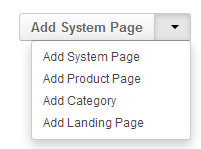
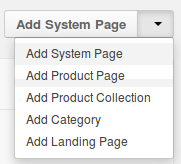
DOC-156: Product Collection Documentation (#10060)

diff --git a/commerce/user_guide/segments/index.rst b/commerce/user_guide/segments/index.rst
@@ -1,0 +1,103 @@
+.. _user-guide-filters-segments:
+
+Segments
+========
+
+Segments are dynamically filtered subsets of the data (e.g. product collection, marketing list) in OroCommerce.
+
+To use a set of records in reports, filters, web catalog nodes or marketing lists, you can create a segment and reuse it instead of copying the same query as a condition.
+
+.. image:: /user_guide/img/filters/use_segments_in_filter.png
+
+Segment combines a set of records filtered using the query that may use the following information as the foundation:
+
+* Activity
+* Data audit
+* Field Condition
+* Segment
+* Condition Group
+
+Dynamic segments refresh automatically. Segments of manual type require explicit refresh by clicking **Refresh** |IcRefresh|.
+
+.. _user-guide--create-segments:
+
+Create Segments
+---------------
+To create a new segment:
+
+#. Navigate to **Reports & Segments > Manage Segments** in the main menu.
+
+#. Click **Create Segment**.
+
+   The *Create Segment page* emerges.
+
+#. In the *General Details*:
+
+   .. image:: /user_guide/img/filters/segment_general.png
+
+   a) Fill in the segment name.
+
+   #) *Optionally*, add a **Description** to help you and other users to understand the purpose or peculiarities of the segment in the future.
+
+   #) Select the main entity that segment should look up.
+
+   #) Select the segment type from the list. **Dynamic** segments are updated as soon as any changes have taken place in the system. **Manual** segments are updated only following the manual refresh action when viewing the segment details.
+
+   #) Optionally, specify the records limit. The segment shows the first X results in case the limit is provided.
+
+   #) Select the segment owner - a business unit, members of which can manage the segment, subject to the roles defined in the system.
+
+#. In the *Designer > Columns* section, define the set of the fields of the entity records to be shown in the segment.
+
+   .. image:: /user_guide/img/filters/list_columns.png
+
+   In order to add a column to the grid:
+
+      a) Choose a field from the drop-down in the **Column** section.
+
+      #) Type in a label to refer to the field in the segment report on the interface. The field label is used by default. Customize it if necessary.
+
+      #) Define the sorting order for at least one column in the segment to sort the resulting data set by the field value.
+
+      #) Click **Add** button.
+
+      #) Reorder the columns by clicking on the line and dragging it to the necessary location.
+
+      .. image:: /user_guide/img/filters/segments_column.png
+
+   In order to manage the columns, use action icons in the last column:
+
+      - Delete a column from the segment with |IcDelete|.
+
+      - Edit the column settings with |IcEdit|.
+
+      - Change the column position, dragging the column by the |IcReorder| icon.
+
+#. In the *Designer > Filters* section, define the filter to select the records for the segment.
+
+#. Click **Save**.
+
+Refresh Manual Segment
+----------------------
+
+To refresh the data in the segment of the manual type:
+
+#. Navigate to **Reports & Segments > Manage Segments** in the main menu.
+
+#. Click on the necessary segment line.
+
+#. Click **Refresh** |IcRefresh|.
+
+View a Segment Filtered Records
+-------------------------------
+
+To view the records selected using the segment filter:
+
+#. Navigate to **Reports & Segments > Manage Segments** in the main menu.
+
+#. Click on the necessary segment line.
+
+.. image:: /user_guide/img/filters/segment_view.png
+
+.. include:: /user_guide/include_images.rst
+   :start-after: begin

diff --git a/commerce/user_guide/marketing_web_catalog/edit_web_catalog_content_tree.rst b/commerce/user_guide/marketing_web_catalog/edit_web_catalog_content_tree.rst
@@ -199,6 +199,34 @@ To add a landing page node to the menu on the OroCommerce Store Front:
 
 #. Click **Save** when you are done filling in the web catalog content node or keep adding the content variants.
 
+Product Collection
+""""""""""""""""""
+
+Product Collection is a filter-based segment that helps you display a custom and dynamic set of products in the web catalog similarly to the category contents.
+
+To add a product collection node to the menu on the OroCommerce Store Front:
+
+#. Select the **Add Product Collection** in the Content Variants list.
+
+   The following section shows:
+
+   .. image:: /user_guide/img/marketing/web_catalogs/WebCatalogCreateContentVariantsProductCollection.png
+      :class: with-border
+
+   .. add ref :ref:`filter <segments-filter>`
+
+#. Set up a filter to limit the products list and include only the necessary products.
+
+   .. note::
+
+      Click **Reset** to clear the filter configuration.
+
+      Click **Apply Query** to preview the filtered product collection.
+
+   .. warning:: If you save the web catalog node with the product collection without applying changed filters, you will be prompted to confirm the changes. It is recommended to preview and double-check the changes to ensure the results meet your expectations.
+
+#. Click **Save** when you are done filling in the web catalog content node or keep adding the content variants.
+
 .. stop
 
 .. include:: /user_guide/include_images.rst

diff --git a/commerce/user_guide/marketing_web_catalog/configuration/index.rst b/commerce/user_guide/marketing_web_catalog/configuration/index.rst
@@ -1,0 +1,37 @@
+:orphan:
+
+Product Collections
+~~~~~~~~~~~~~~~~~~~
+
+.. begin
+
+You can control the frequency of the product collections indexation. By default, product collections are indexed every hour.
+
+.. note::
+
+   Indexing simple filters that rely only on the product attributes happens via the message queue. Indexing task is queued immediately after the product collection node is saved. After the index task is processed, the product collection (or the part of product collection) is available on the Front Store immediately.
+
+   Indexing more complex filters (e.g. those that involve relationships with other entities) is separated from the common reindexation process and happens on a dedicated schedule via cron.
+
+To change the default product collections indexation frequency:
+
+1. Navigate to the system configuration (click **System > Configuration** in the main menu).
+2. Select **Commerce > Product > Product Collections** in the menu to the left.
+
+   .. The following page opens.
+
+   .. .. image:: /user_guide/img/system/configuration/inventory/limitations.png
+         :class: with-border
+
+3. To customize the Indexation Cron Schedule:
+
+     a) Clear the **Use Default** box next to the option.
+     b) Select the desired frequency from the list.
+
+4. Click **Save**.
+
+
+.. finish
+
+.. include:: /user_guide/include_images.rst
+   :start-after: begin

diff --git a/commerce/user_guide/overview/marketing/web_catalogs_overview.rst b/commerce/user_guide/overview/marketing/web_catalogs_overview.rst
@@ -10,6 +10,7 @@ With OroCommerce web catalog and content tree, you can organize the target web s
 The Web Catalog content nodes may be of the following types:
 
 * System page - one of the standard eCommerce website pages (e.g. sign in, user profile, open orders, etc). 
-* Landing page - a custom `landing page <./marketing-landing-page>`_ created in the **Marketing > Landing Pages** section.
-* Category - a category of the :ref:`master catalog <user-guide--products--master-catalog>`.
 * Product - direct link to :ref:`product <user-guide--products--products>` details.
+* Product Collection - a dynamically generated group of products that are stored as data segment.
+* Category - a category of the :ref:`master catalog <user-guide--products--master-catalog>`.
+* Landing page - a custom :ref:`landing page <user-guide--landing-pages>` created in the **Marketing > Landing Pages** section.

diff --git a/commerce/user_guide/marketing_web_catalog/index.rst b/commerce/user_guide/marketing_web_catalog/index.rst
@@ -18,6 +18,13 @@ To view all Web Catalogs, navigate to **Marketing > Web Catalogs** in the main m
 .. image:: /user_guide/img/marketing/web_catalogs/WebCatalogs.png
    :class: with-border
 
+Configuration
+-------------
+
+.. include:: configuration/index.rst
+   :start-after: begin
+   :end-before: finish
+   
 .. include:: create.rst
    :end-before: finish
 

diff --git a/commerce/user_guide/include_images.rst b/commerce/user_guide/include_images.rst
@@ -9,6 +9,14 @@ Images
 
    <i class="fa fa-check fa-lg" aria-hidden="true"></i>
 
+.. |IcRefresh| raw:: html
+
+   <i class="fa fa-repeat fa-lg" aria-hidden="true"></i>
+
+.. |IcReorder| raw:: html
+
+   <i class="fa fa-arrows-v fa-lg" aria-hidden="true"></i>
+
 .. |IcDeactivate| raw:: html
 
    <i class="fa fa-close fa-lg" aria-hidden="true"></i>

diff --git a/commerce/user_guide/system/commerce_configuration/index.rst b/commerce/user_guide/system/commerce_configuration/index.rst
@@ -23,6 +23,8 @@ This section contains information on the system configuration options specific f
    ../../taxes/configuration/us_sales_tax.rst
 
    ../../taxes/configuration/eu_vat_tax.rst
+   
+   ../../marketing_web_catalog/configuration/index.rst
 
    payment_configuration
 

diff --git a/commerce/user_guide/index.rst b/commerce/user_guide/index.rst
@@ -126,6 +126,8 @@ Table of Contents
 
    taxes/index
 
+   segments/index
+
    system/index
 
 ..   install/index
